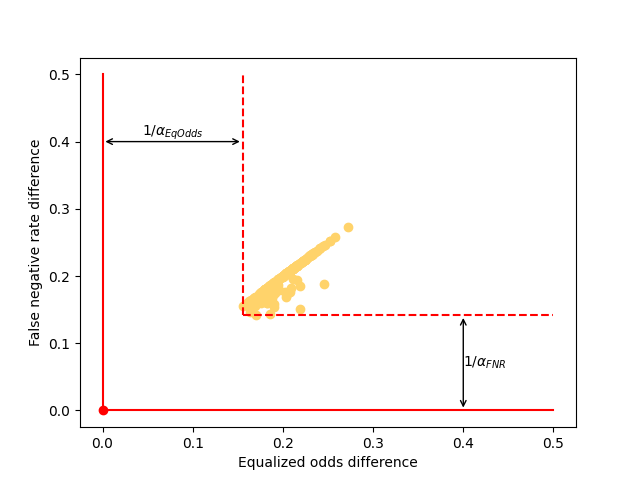
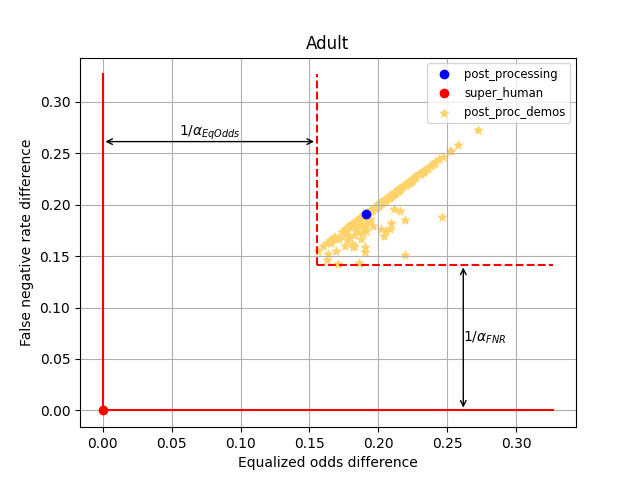
added post_processing to plots

diff --git a/plot.py b/plot.py
@@ -30,7 +30,7 @@ if __name__ == "__main__":
     alpha = model_params["alpha"]
     print("alpha: ", alpha)
     alpha = [1 / x for x in alpha]
-    print(alpha)
+    print(model_params)
     ### TO DO: 1) add legends to the plots
     ###        2) add solid and dashed lines
     ### feature j is on the y axis and i is on the x axis
@@ -42,21 +42,20 @@ if __name__ == "__main__":
             f1 = plt.figure()
             x = model_params['eval_sh'].loc[feature[j]][0]
             y = model_params['eval_sh'].loc[feature[i]][0]
+            x_pp = model_params['eval_pp'].loc[feature[j]][0]
+            y_pp = model_params['eval_pp'].loc[feature[i]][0]
             newX = x + alpha[j]
             newY = y + alpha[i]
-            print(feature[j], " vs " ,feature[i])
-            print("x: ", x , "y: ", y)
-            print("newX: ", newX , "newY: ", newY)
-            print()
-            xlim = 0.5 #max(max(demo_metric_j), x, newX)
-            ylim = 0.5 #max(max(demo_metric_i), y, newY)
+            xlim = max(max(demo_metric_j), newX)*1.2
+            ylim = max(max(demo_metric_i), newY)*1.2
             # xLeft is (xlim - x)*0.8 + x
             yLeft = (ylim - y)*0.8 + y
             xBottom = (xlim - x)*0.8 + x
             plt.xlabel(feature[j])
             plt.ylabel(feature[i])
-            plt.scatter(demo_metric_j, demo_metric_i, marker='o', c=[(255/255,211/255,107/255)], label = 'demo_list')
+            plt.scatter(demo_metric_j, demo_metric_i, marker='*', c=[(255/255,211/255,107/255)], label = 'post_proc_demos')
             plt.plot(x, y, 'ro', label = 'super_human')
+            plt.plot(x_pp, y_pp, 'bo', label = 'post_processing')
             plt.plot([x, x], [y, ylim], 'r')
             plt.plot([x, xlim], [y, y], 'r')
             plt.plot([newX, newX], [newY, ylim], 'r--')
@@ -71,5 +70,11 @@ if __name__ == "__main__":
             plt.text(xBottom, (newY + y) * 0.5,
                     fr"$1/\alpha_{{{short[feature[i]]}}}$", horizontalalignment='left', verticalalignment='center')
             
+            handles, labels = plt.gca().get_legend_handles_labels()
+            #plt.xlabel('Fairness Violation')
+            #plt.ylabel('NDCG')
+            plt.grid(True)
+            plt.legend(reversed(handles), reversed(labels),loc='upper right', ncol=1, fontsize="small")
+            plt.title(dataset)
             plots_path_dir = os.path.join(sh_obj.plots_path, short[feature[j]] + "_vs_"+ short[feature[i]] + ".png")
             plt.savefig(plots_path_dir)
